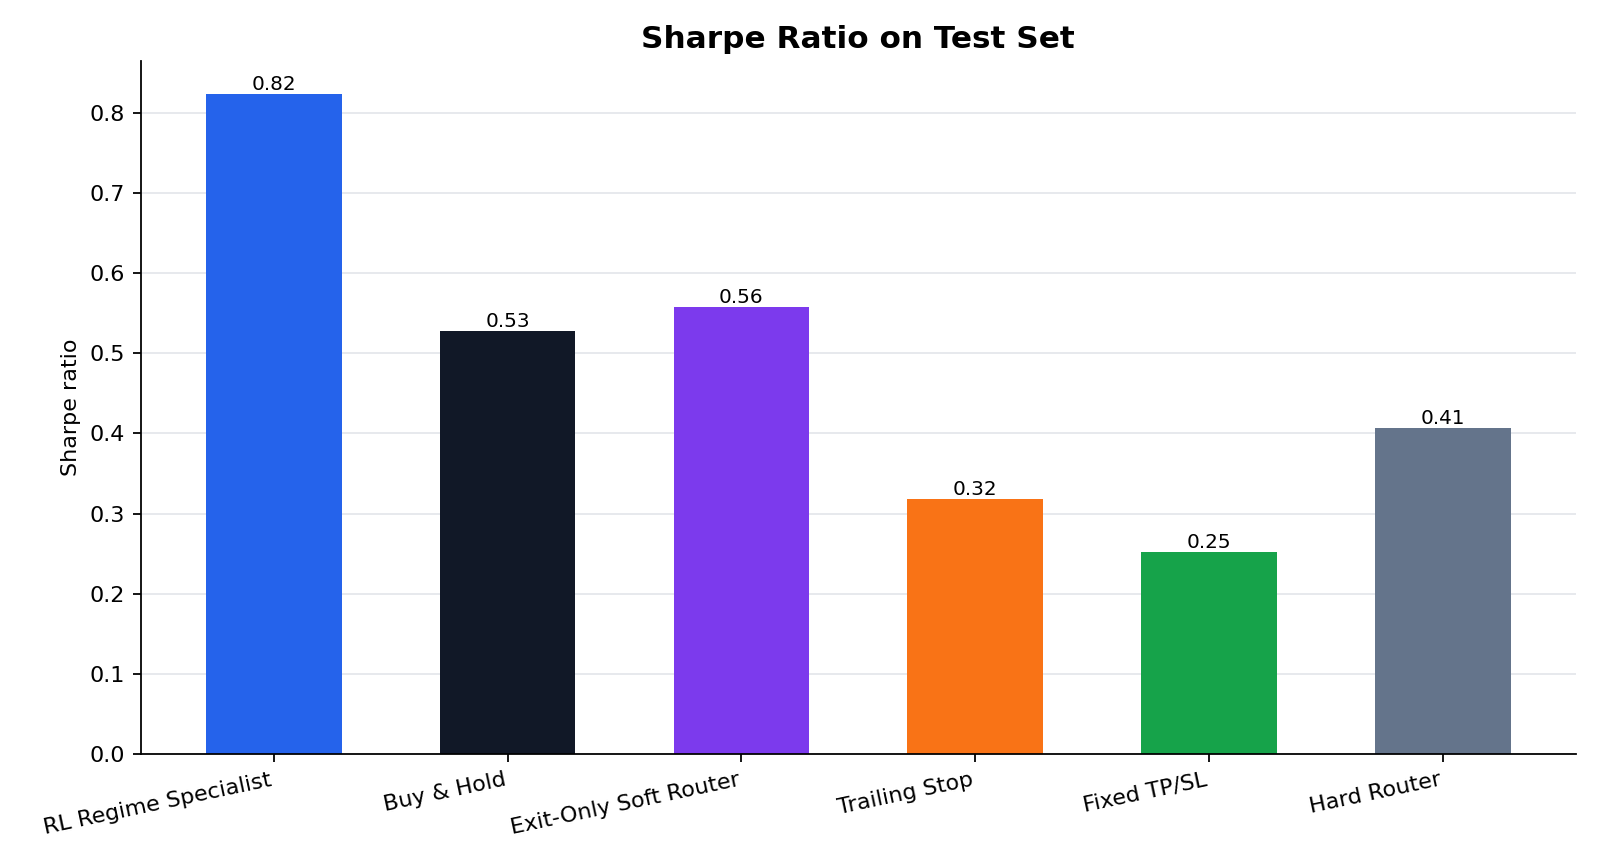
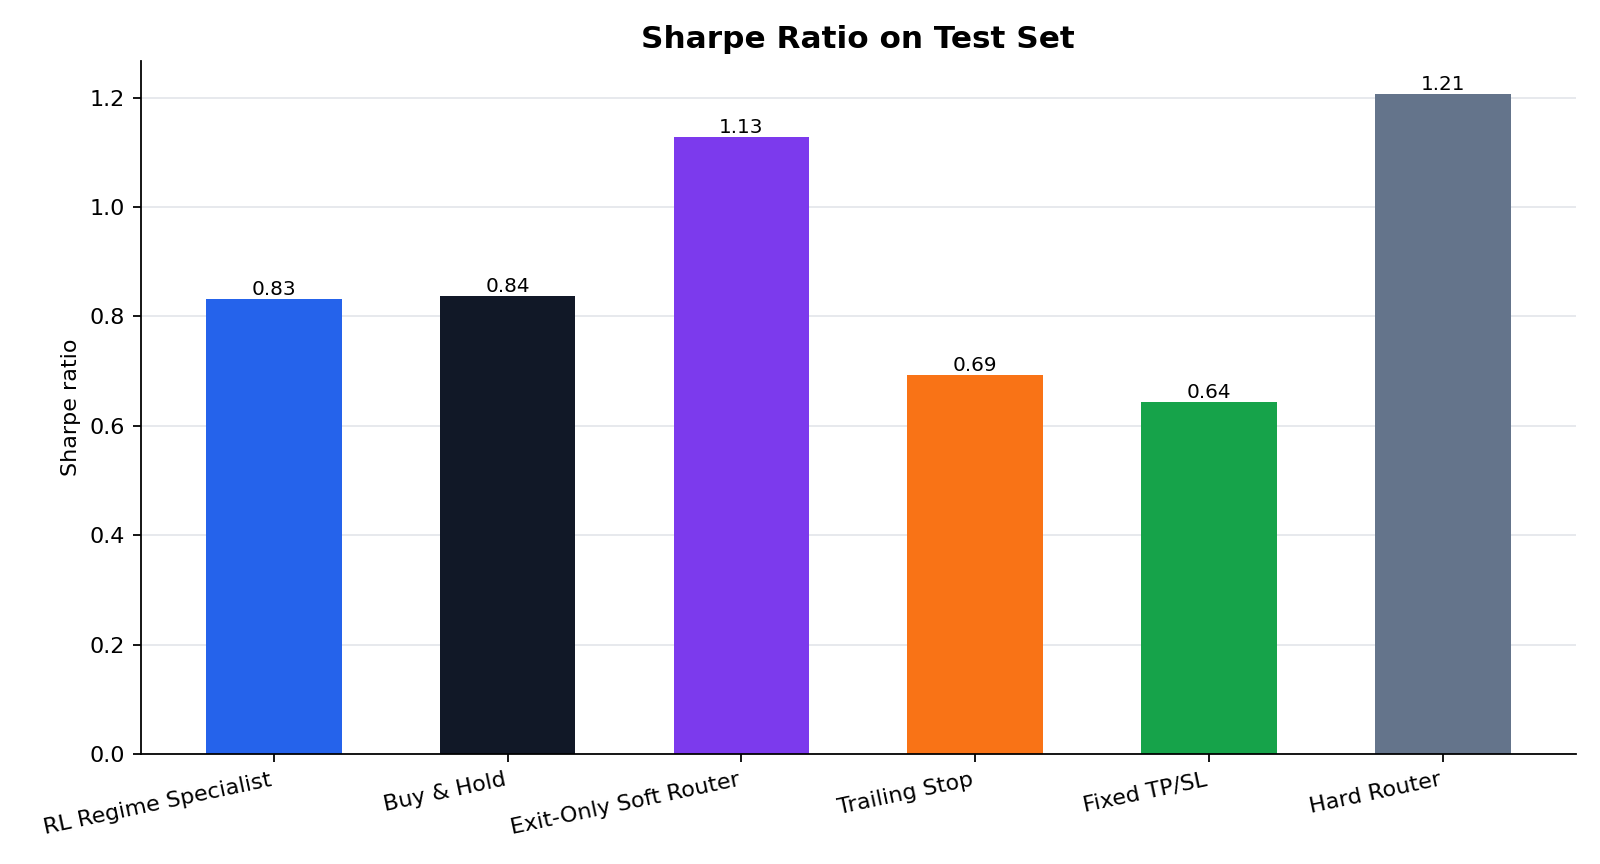
Fix regime visualization warmup alignment

diff --git a/src/regime_visualize.py b/src/regime_visualize.py
@@ -58,8 +58,14 @@ def _style_axes(ax) -> None:
 
 
 def _mean_nav(results: list[DailyBacktestResult]) -> np.ndarray:
-    min_len = min(len(result.equity_curve) for result in results)
-    curves = np.asarray([result.equity_curve[:min_len] for result in results], dtype=np.float64)
+    max_len = max(len(result.equity_curve) for result in results)
+    padded = []
+    for result in results:
+        curve = np.asarray(result.equity_curve, dtype=np.float64)
+        if curve.size < max_len:
+            curve = np.pad(curve, (0, max_len - curve.size), mode="edge")
+        padded.append(curve)
+    curves = np.asarray(padded, dtype=np.float64)
     return np.mean(curves, axis=0)
 
 
@@ -107,7 +113,7 @@ def plot_nav(method_results: dict[str, list[DailyBacktestResult]], output_path: 
     for method, results in method_results.items():
         nav = _mean_nav(results)
         ax.plot(nav, label=_label(method), color=_color(method), linewidth=2.2)
-    ax.set_title("Average NAV on Test Set", fontsize=14, weight="bold")
+    ax.set_title("Average NAV on Test Set After Warmup", fontsize=14, weight="bold")
     ax.set_xlabel("Trading days")
     ax.set_ylabel("Net asset value")
     _style_axes(ax)
@@ -202,7 +208,29 @@ def _ticker_path(data_dir: Path, ticker: str) -> Path:
     return data_dir / f"{ticker.replace('.', '_').lower()}.csv"
 
 
-def rebuild_regime_results(output_dir: str | Path, data_dir: str | Path = "data/stooq") -> dict[str, list[DailyBacktestResult]]:
+def _mean_metrics(results: list[DailyBacktestResult]) -> dict[str, float]:
+    keys = results[0].metrics.keys()
+    out: dict[str, float] = {}
+    for key in keys:
+        values = [result.metrics[key] for result in results]
+        out[key] = float(np.mean(values)) if isinstance(values[0], float) else int(np.sum(values))
+    return out
+
+
+def _aggregate_results(method_results: dict[str, list[DailyBacktestResult]], cost_bps: float) -> pd.DataFrame:
+    rows = []
+    for method, results in method_results.items():
+        metrics = _mean_metrics(results)
+        metrics["estimated_cost"] = metrics["turnover"] * cost_bps / 10_000.0
+        rows.append({"method": method, **metrics})
+    return pd.DataFrame(rows)
+
+
+def rebuild_regime_results(
+    output_dir: str | Path,
+    data_dir: str | Path = "data/stooq",
+    warmup_days: int = 200,
+) -> dict[str, list[DailyBacktestResult]]:
     out = Path(output_dir)
     data_path = Path(data_dir)
     summary = pd.read_json(out / "summary.json", typ="series")
@@ -235,23 +263,24 @@ def rebuild_regime_results(output_dir: str | Path, data_dir: str | Path = "data/
     for ticker in tickers:
         prices = _load_close_prices(_ticker_path(data_path, ticker))
         test_prices = split_prices(prices).test
+        benchmark_prices = test_prices[warmup_days:] if len(test_prices) > warmup_days + 2 else test_prices
         methods["regime_entry_soft_exit"].append(
-            regime_entry_soft_exit_backtest(test_prices, classifier, exit_agent, entry_cfg)
+            regime_entry_soft_exit_backtest(test_prices, classifier, exit_agent, entry_cfg, evaluation_start=warmup_days)
         )
         methods["buy_and_hold"].append(
-            daily_buy_and_hold(test_prices, cost_bps=entry_cfg.cost_bps, annual_cash_rate=entry_cfg.annual_cash_rate)
+            daily_buy_and_hold(benchmark_prices, cost_bps=entry_cfg.cost_bps, annual_cash_rate=entry_cfg.annual_cash_rate)
         )
         methods["exit_only_soft_60"].append(
-            daily_agent_backtest(test_prices, exit_agent, episode_length=60, cost_bps=entry_cfg.cost_bps, annual_cash_rate=entry_cfg.annual_cash_rate)
+            daily_agent_backtest(benchmark_prices, exit_agent, episode_length=60, cost_bps=entry_cfg.cost_bps, annual_cash_rate=entry_cfg.annual_cash_rate)
         )
         methods["trailing_stop_60"].append(
-            daily_rule_backtest(test_prices, "trailing_stop", episode_length=60, cost_bps=entry_cfg.cost_bps, annual_cash_rate=entry_cfg.annual_cash_rate)
+            daily_rule_backtest(benchmark_prices, "trailing_stop", episode_length=60, cost_bps=entry_cfg.cost_bps, annual_cash_rate=entry_cfg.annual_cash_rate)
         )
         methods["fixed_tp_sl_60"].append(
-            daily_rule_backtest(test_prices, "fixed_tp_sl", episode_length=60, cost_bps=entry_cfg.cost_bps, annual_cash_rate=entry_cfg.annual_cash_rate)
+            daily_rule_backtest(benchmark_prices, "fixed_tp_sl", episode_length=60, cost_bps=entry_cfg.cost_bps, annual_cash_rate=entry_cfg.annual_cash_rate)
         )
         methods["hard_router_60"].append(
-            daily_agent_backtest(test_prices, hard_router, episode_length=60, cost_bps=entry_cfg.cost_bps, annual_cash_rate=entry_cfg.annual_cash_rate)
+            daily_agent_backtest(benchmark_prices, hard_router, episode_length=60, cost_bps=entry_cfg.cost_bps, annual_cash_rate=entry_cfg.annual_cash_rate)
         )
     return methods
 
@@ -260,21 +289,22 @@ def write_nav_data(method_results: dict[str, list[DailyBacktestResult]], output_
     output = Path(output_path)
     output.parent.mkdir(parents=True, exist_ok=True)
     navs = {method: _mean_nav(results) for method, results in method_results.items()}
-    min_len = min(len(nav) for nav in navs.values())
-    df = pd.DataFrame({"day": np.arange(min_len)})
+    max_len = max(len(nav) for nav in navs.values())
+    df = pd.DataFrame({"day": np.arange(max_len)})
     for method, nav in navs.items():
-        df[method] = nav[:min_len]
+        if nav.size < max_len:
+            nav = np.pad(nav, (0, max_len - nav.size), mode="edge")
+        df[method] = nav
     df.to_csv(output, index=False)
     return str(output)
 
 
 def write_full_regime_visualization(output_dir: str | Path, data_dir: str | Path = "data/stooq") -> dict[str, str]:
     out = Path(output_dir)
-    aggregate_df = pd.read_csv(out / "test_metrics_aggregate.csv")
     summary = pd.read_json(out / "summary.json", typ="series")
     cost_bps = float(dict(summary["best_entry_config"]).get("cost_bps", 5.0))
-    aggregate_df = add_estimated_cost(aggregate_df, cost_bps)
     method_results = rebuild_regime_results(out, data_dir=data_dir)
+    aggregate_df = _aggregate_results(method_results, cost_bps)
     figure_dir = out / "figures"
     paths = {
         "nav": figure_dir / "nav_test.png",

diff --git a/README.md b/README.md
@@ -332,9 +332,25 @@ outputs/regime_trading_system_no_take_profit/visualization_metrics.csv
 
 ### Interpretation
 
-The NAV curve looks smoother because the regime system reduces risk exposure rather than simply maximizing raw return.
+Charts are generated after the 200-day feature warmup. The warmup period is excluded from the plotted NAV so the initial cash-only period does not appear as a misleading straight line.
 
-On this test set, `RL Regime Specialist` has slightly lower total return than buy-and-hold, but it also has lower annualized volatility and lower maximum drawdown. That combination gives it a higher Sharpe ratio. In other words, the model's current advantage is risk-adjusted performance and drawdown control, not maximum absolute return.
+On this post-warmup test window, `RL Regime Specialist` has lower total return than buy-and-hold, but it also has lower annualized volatility and lower maximum drawdown:
+
+```text
+RL Regime Specialist:
+  total return       46.76%
+  annual volatility  16.72%
+  max drawdown      -19.97%
+  Sharpe             0.83
+
+Buy & Hold:
+  total return       66.28%
+  annual volatility  19.45%
+  max drawdown      -21.40%
+  Sharpe             0.84
+```
+
+This means the model reduced risk, but in this specific test it did not convert that risk reduction into a higher Sharpe ratio versus buy-and-hold. The more defensible interpretation is: the regime system is a risk-control overlay, not a return maximizer.
 
 The trade count and estimated cost charts also show the cost of this behavior: the regime system trades more than buy-and-hold, so transaction costs are higher. This is the price paid for active risk control.
 
